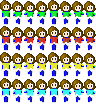
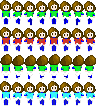
Transition from Skin selection screen to Level

diff --git a/ClashingElements-TheGame/Game.cpp b/ClashingElements-TheGame/Game.cpp
@@ -24,8 +24,8 @@ Game::~Game( )
 void Game::Initialize( )
 {
 	m_pScreen = new SkinScreen{ Point2f{GetViewPort().width / 2, 0},"", GetViewPort() };
-	//m_pLevel = new Level{};
-	//m_Camera.SetLevelBoundaries(m_Level.GetLevelBoundaries());
+	m_pLevel = nullptr;
+	
 }
 
 void Game::Cleanup( )
@@ -33,30 +33,93 @@ void Game::Cleanup( )
 	
 	delete m_pScreen;
 	m_pScreen = nullptr;
+	if (m_pLevel != nullptr)
+	{
+		delete m_pLevel;
+		m_pLevel = nullptr;
+	}
 }
 
 void Game::Update( float elapsedSec )
 {
-	m_pScreen->Update(elapsedSec);
-	//m_Level.Update(elapsedSec);
+	switch (m_GameState)
+	{
+	case Game::GameState::Start:
+		break;
+	case Game::GameState::ShowingHighScores:
+		break;
+	case Game::GameState::SelectingSkin:
+		m_pScreen->Update(elapsedSec);
+		break;
+	case Game::GameState::Playing:
+		m_pLevel->Update(elapsedSec);
+		break;
+	case Game::GameState::GameOver:
+		break;
+	default:
+		break;
+	}
+
+	
 }
 
 void Game::Draw( ) const
 {
 
 	ClearBackground();
-	//glPushMatrix();
-	////glScalef( m_Scale,m_Scale, 1 );
-	//m_Camera.Transform(m_Level.GetPlayerPos());
-	////utils::DrawRect(1, 1, 1280 - 1, 720 - 1);
-	//m_Level.Draw();
-	//glPopMatrix();
-	m_pScreen->Draw();
+	switch (m_GameState)
+	{
+	case Game::GameState::Start:
+		break;
+	case Game::GameState::ShowingHighScores:
+		break;
+	case Game::GameState::SelectingSkin:
+		m_pScreen->Draw();
+		break;
+	case Game::GameState::Playing:
+		glPushMatrix();
+		//glScalef( m_Scale,m_Scale, 1 );
+		m_Camera.Transform(m_pLevel->GetPlayerPos());
+		//utils::DrawRect(1, 1, 1280 - 1, 720 - 1);
+		m_pLevel->Draw();
+		glPopMatrix();
+		break;
+	case Game::GameState::GameOver:
+		break;
+	default:
+		break;
+	}
+	
+	
 }
 
 void Game::ProcessKeyDownEvent( const SDL_KeyboardEvent & e )
 {
-	m_pScreen->KeyInput(e);
+	switch (m_GameState)
+	{
+	case Game::GameState::Start:
+		break;
+	case Game::GameState::ShowingHighScores:
+		break;
+	case Game::GameState::SelectingSkin:
+		m_pScreen->KeyInput(e);
+		switch (e.keysym.sym)
+		{
+		case SDLK_SPACE:
+			m_pLevel = new Level{ static_cast<SkinScreen*>(m_pScreen)->GetCharacter() };
+			delete m_pScreen;
+			m_pScreen = nullptr;
+			m_Camera.SetLevelBoundaries(m_pLevel->GetLevelBoundaries());
+			m_GameState = GameState::Playing;
+			break;
+		}
+		break;
+	case Game::GameState::Playing:
+		break;
+	case Game::GameState::GameOver:
+		break;
+	}
+	
 	//std::cout << "KEYDOWN event: " << e.keysym.sym << std::endl;
 }
 

diff --git a/ClashingElements-TheGame/Character.cpp b/ClashingElements-TheGame/Character.cpp
@@ -11,6 +11,7 @@ Character::Character( const Skin& skin) :
 	m_State{CharacterState::ChoosingSkin},
 	m_Dir{ Direction::Down },
 	m_HitBox{ Circlef{Point2f{}, 6} },
+	m_Pos{},
 
 	m_Speed{ Tile::Size * 4 },
 
@@ -55,10 +56,13 @@ void Character::Update(float elapsedSec)
 		{
 			if (m_TargetXLocation < m_BottomCenter.x) m_Dir = Direction::Left;
 			else m_Dir = Direction::Right;
-			m_BottomCenter.x += Lerp<float>(m_BottomCenter.x, float(m_TargetXLocation), m_Speed * elapsedSec);
-			if (round(m_BottomCenter.x) == m_TargetXLocation)
+
+			m_Pos.x = Lerp<float>(m_Pos.x, float(m_TargetXLocation), m_Speed * elapsedSec);
+			m_BottomCenter.x = round(m_Pos.x);
+			std::cout << m_BottomCenter.x << std::endl;
+			if (m_BottomCenter.x == m_TargetXLocation)
 			{
-				m_BottomCenter.x = float(round(m_BottomCenter.x));
+				//m_BottomCenter.x = float(round(m_BottomCenter.x));
 				m_IsMoving = false;
 			}
 		}
@@ -67,10 +71,12 @@ void Character::Update(float elapsedSec)
 		{
 			if (m_TargetYLocation < m_BottomCenter.y) m_Dir = Direction::Down;
 			else m_Dir = Direction::Up;
-			m_BottomCenter.y += Lerp<float>(m_BottomCenter.y, float(m_TargetYLocation), m_Speed * elapsedSec);
-			if (round(m_BottomCenter.y) == m_TargetYLocation)
+
+			m_Pos.y = Lerp<float>(m_Pos.y, float(m_TargetYLocation), m_Speed * elapsedSec);
+			m_BottomCenter.y = round(m_Pos.y);
+			if (m_BottomCenter.y == m_TargetYLocation)
 			{
-				m_BottomCenter.y = float(round(m_BottomCenter.y));
+				//m_BottomCenter.y = float(round(m_BottomCenter.y));
 				m_IsMoving = false;
 			}
 		}
@@ -145,10 +151,14 @@ void Character::SetPos(const Point2f& newPos)
 {
 	m_BottomCenter = newPos;
 	m_HitBox.center = newPos;
+	m_Pos = newPos;
 	m_TargetXLocation = int(newPos.x);
 	m_TargetYLocation = int(newPos.y);
 }
-
+void Character::Play()
+{
+	m_State = CharacterState::Playing;
+}
 
 //#include "pch.h"
 //#include "Character.h"

diff --git a/ClashingElements-TheGame/Character.h b/ClashingElements-TheGame/Character.h
@@ -23,6 +23,7 @@ public:
 	Circlef GetHitBox() const;
 	bool IsMoving() const;
 	void SetPos(const Point2f& newPos);
+	void Play();
 
 private:
 	enum class CharacterState
@@ -37,6 +38,7 @@ private:
 	const Texture* m_pTexture;
 
 	Circlef m_HitBox;
+	Point2f m_Pos;
 
 	int m_Speed;
 
@@ -45,44 +47,3 @@ private:
 
 	bool m_IsMoving;
 };
-//#pragma once
-//#include <utils.h>
-//#include "AnimatedSprite.h"
-//#include "GlobalEnumClasses.h"
-//class Character final: public AnimatedSprite
-//{
-//public:
-//	explicit Character(const Point2f& bottomCenter, const Texture* pTexture);
-//	~Character();
-//
-//	Character(const Character& other) = delete;
-//	Character(Character&& other) noexcept = delete;
-//	Character& operator=(const Character& other) = delete;
-//	Character& operator=(Character&& other) noexcept = delete;
-//
-//	virtual void Update(float elapsedSec) override;
-//	
-//	void ResetFrames();
-//	
-//	bool IsMoving() const;
-//	void SetIsMoving(bool isMoving);
-//	void SetDir(const Direction& newDir);
-//	void SetPos(const Point2f& newPos);
-//
-//	void Play();
-//private:
-//
-//	enum class CharacterState
-//	{
-//		ChoosingSkin,
-//		Playing
-//	};
-//
-//	CharacterState m_State;
-//	Direction m_Dir;
-//
-//	const Texture* m_pTexture;
-//
-//	bool m_IsMoving;
-//};
-//

diff --git a/ClashingElements-TheGame/Level.cpp b/ClashingElements-TheGame/Level.cpp
@@ -8,15 +8,16 @@
 #include <utils.h>
 
 
-Level::Level() :
+Level::Level(Character* pCharacter) :
 	m_StageNumber{ 2 },
 	m_LoopNumber{ 0 },
 	m_pGraph{}
 {
 	
+	m_pPlayer = pCharacter;
+	m_pPlayer->Play();
 	LoadStage();
 	m_VecTestSprites.push_back(new BackGround{ Point2f{500, 0}, "Mall.png" });
-	//m_pPlayer = new Character{ Point2f{500, 400} };
 	m_pBackGroundMusic = new SoundStream{ "Sounds/Spaceship.wav" };
 	m_pBackGroundMusic->Play(true);
 }
@@ -83,7 +84,6 @@ void Level::HitCollectable()
 {
 	for (int i = 0; i < m_pVecCollectables.size(); i++)
 	{
-		std::cout << "Collect" << std::endl;
 		if (utils::IsOverlapping(m_pPlayer->GetHitBox(), m_pVecCollectables[i]->GetHitBox()))
 		{
 			delete m_pVecCollectables[i];

diff --git a/ClashingElements-TheGame/SkinScreen.cpp b/ClashingElements-TheGame/SkinScreen.cpp
@@ -23,10 +23,14 @@ SkinScreen::SkinScreen(const Point2f& bottomCenter, const std::string& backGroun
 }
 SkinScreen::~SkinScreen()
 {
-	for (auto& pSkin : m_pSkins)
+	for (int i = 0; i < m_pSkins.size(); ++i)
 	{
-		delete pSkin;
-		pSkin = nullptr;
+		if (i != m_IndexCurrSkin)
+		{
+			delete m_pSkins[i];
+			m_pSkins[i] = nullptr;
+		}
+
 	}
 }
 
@@ -57,7 +61,10 @@ void SkinScreen::KeyInput(const SDL_KeyboardEvent& e)
 		m_SelectionRect.left = m_pSkins[m_IndexCurrSkin]->GetHitBox().center.x - m_SelectionRect.width / 2;
 		break;
 	}
-	std::cout << m_IndexCurrSkin << std::endl;
+}
+Character* SkinScreen::GetCharacter() const
+{
+	return m_pSkins[m_IndexCurrSkin];
 }
 
 

diff --git a/ClashingElements-TheGame/Game.h b/ClashingElements-TheGame/Game.h
@@ -42,8 +42,8 @@ private:
 
 	// VARIABLES
 
-	GameState m_GameState{ GameState::Start };
-	//Level* m_pLevel;
+	GameState m_GameState{ GameState::SelectingSkin };
+	Level* m_pLevel;
 	Camera m_Camera{ GetViewPort().width , GetViewPort().height};
 	Screen* m_pScreen;
 

diff --git a/ClashingElements-TheGame/BackGround.h b/ClashingElements-TheGame/BackGround.h
@@ -11,7 +11,6 @@ public:
 	BackGround(BackGround&& other) noexcept = delete;
 	BackGround& operator=(const BackGround& other) = delete;
 	BackGround& operator=(BackGround&& other) noexcept = delete;
-	void randomFun();
 private:
 
 	const Texture* m_pTexture;

diff --git a/ClashingElements-TheGame/SkinScreen.h b/ClashingElements-TheGame/SkinScreen.h
@@ -18,6 +18,8 @@ public:
 	virtual void Update(float elapsedSec) override;
 	virtual void KeyInput(const SDL_KeyboardEvent& e) override;
 
+	Character* GetCharacter() const;
+
 private:
 
 	std::vector<Character*> m_pSkins;

diff --git a/ClashingElements-TheGame/MyUtils.h b/ClashingElements-TheGame/MyUtils.h
@@ -3,5 +3,6 @@
 template<typename Type>
 Type Lerp(Type a, Type b, float t)
 {
-    return ((b - a) / abs((b - a))) * t;
+   // return ((b - a) / abs((b - a))) * t;
+   return a + ((b - a) / abs((b - a))) * t;
 }

diff --git a/ClashingElements-TheGame/Level.h b/ClashingElements-TheGame/Level.h
@@ -13,7 +13,7 @@ class Character;
 class Level final
 {
 public:
-	explicit Level();
+	explicit Level(Character* pCharacter);
 	~Level();
 
 	Level(const Level& other) = delete;

diff --git a/ClashingElements-TheGame/BackGround.cpp b/ClashingElements-TheGame/BackGround.cpp
@@ -13,7 +13,3 @@ BackGround::~BackGround()
 	delete m_pTexture;
 	m_pTexture = nullptr;
 }
-void BackGround::randomFun()
-{
-
-}
